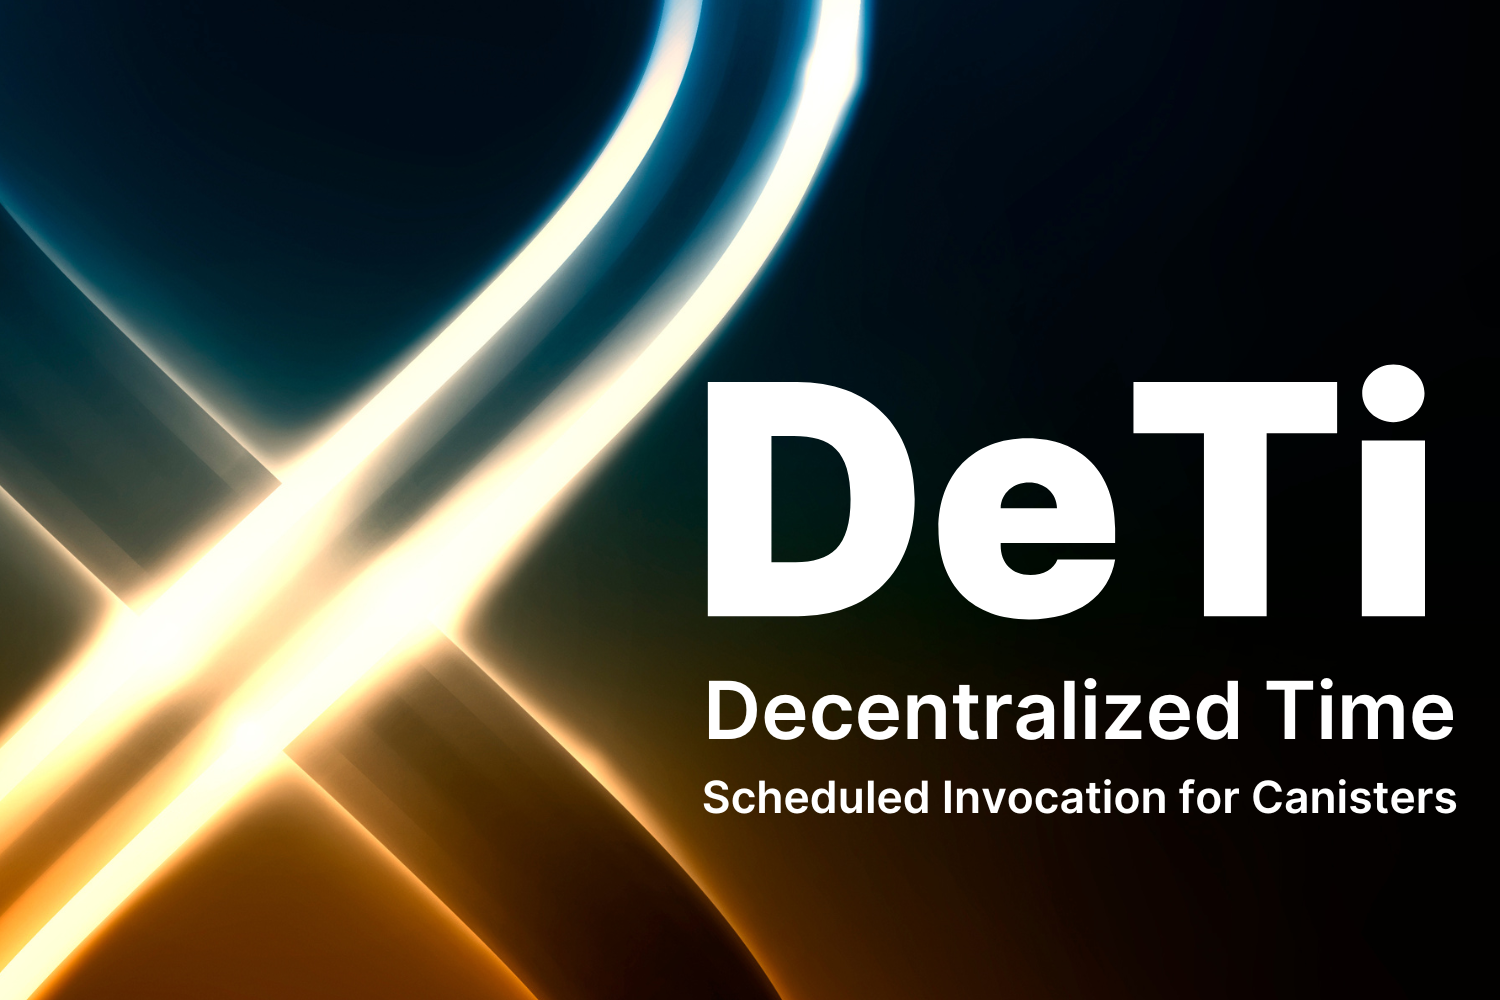
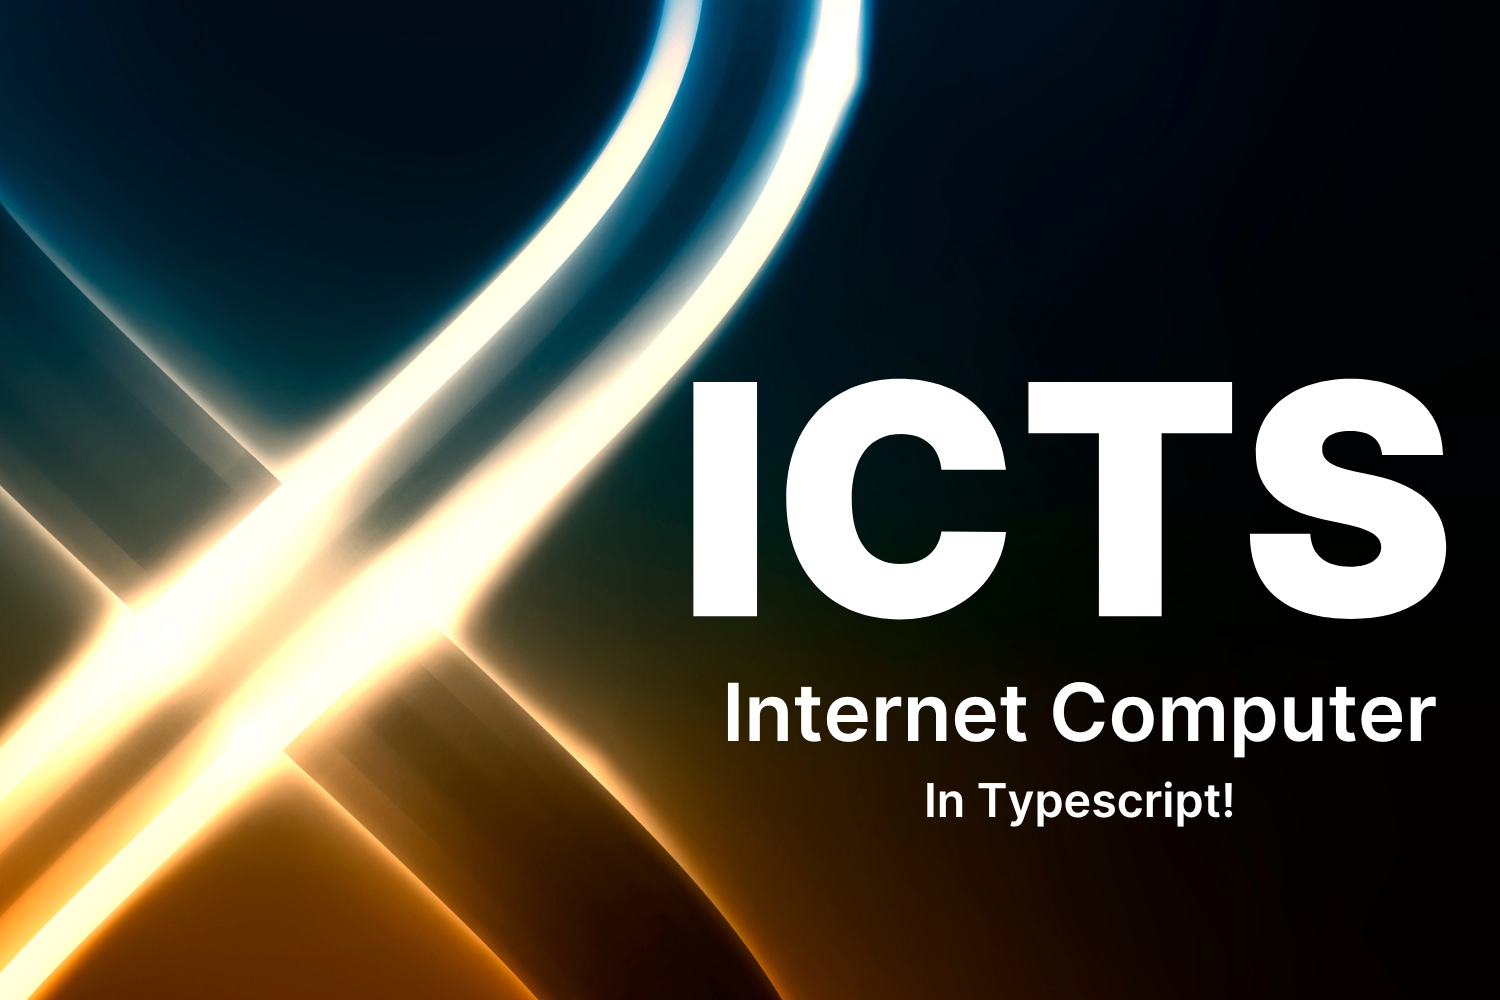
feat: add rebuild-backend becxause we need it at the start

diff --git a/react/src/LoggedOut.tsx b/react/src/LoggedOut.tsx
@@ -20,7 +20,7 @@ const useBackend = () => {
   const [actor, setActor] = useState<ActorSubclass<_SERVICE>>();
   useEffect(() => {
     (async () => {
-      const a = await createActor(heartbeat, {
+      const a = await createActor(backend, {
         agentOptions: { host },
       });
       setActor(a);
@@ -34,44 +34,14 @@ export const LoggedOut: FC = () => {
   const [plugNewClass, setPlugNewClass] = useState("opacity-0");
   const [iconNewClass, setIconNewClass] = useState("text-black");
   const [isOpen, setIsOpen] = useState(false);
-  const actor = useHeartbeat();
-  const getStats = useCallback(async () => {
-    if (actor) {
-      console.log("Firing getstats");
-      setHeartbeats(await actor.get_total_heartbeats());
-      setMessages(await actor.get_total_messages());
-      setBurnedPulses(await actor.get_total_burned_pulses());
-    }
-  }, [actor]);
-  useEffect(() => {
-    if (actor) {
-      clearInterval(timer);
-      timer = setInterval(getStats, 5000);
-    }
-    return () => {
-      clearInterval(timer);
-    };
-  }, [getStats]);
-  const [heartbeats, setHeartbeats] = useState(BigInt(0));
-  const [messages, setMessages] = useState(BigInt(0));
-  const [burnedPulses, setBurnedPulses] = useState(BigInt(0));
+
   useEffect(() => {
     setTimeout(() => {
       // setNewClass("blur-xl");
       setPlugNewClass("opacity-100");
     }, 2000);
   }, []);
-  useEffect(() => {
-    if (heartbeats) {
-      setNewClass("blur-xl");
-      setIconNewClass("text-white translate-y-10");
 
-      setTimeout(() => {
-        setNewClass("blur-sm");
-        setIconNewClass("text-black");
-      }, 1500);
-    }
-  }, [heartbeats]);
   return (
     <Fragment>
       <div
@@ -132,13 +102,6 @@ export const LoggedOut: FC = () => {
           </div>
 
           <div className="flex justify-around w-full flex-row"></div>
-          <div className="flex justify-around  flex-row  ">
-            <Stats
-              heartbeats={heartbeats}
-              messages={messages}
-              burnedPulses={burnedPulses}
-            />
-          </div>
           <div className="flex justify-around w-full flex-row">
             <div className="flex">
               <button
@@ -163,46 +126,5 @@ export const LoggedOut: FC = () => {
 };
 
 /* This example requires Tailwind CSS v2.0+ */
-
-const Stats: FC<{
-  heartbeats: bigint;
-  burnedPulses: bigint;
-  messages: bigint;
-}> = ({ heartbeats, burnedPulses, messages }) => {
-  // const { createActor } = usePlug();
-
-  const stats = [
-    { name: "Heartbeats", stat: heartbeats.toLocaleString() },
-    { name: "Messages", stat: messages.toLocaleString() },
-    {
-      name: "Burned Pulses",
-      stat: (Number(burnedPulses) / 10_000_000).toFixed(7),
-    },
-  ];
-  return (
-    <div>
-      <div className="p-6 bg-black bg-opacity-60 rounded-lg mb-6">
-        <h2 className="text-3xl leading-6 font-bold text-gray-100 text-center">
-          Statistics
-        </h2>
-        <dl className="mt-5 grid grid-cols-1 gap-5 sm:grid-cols-3">
-          {stats.map((item) => (
-            <div
-              key={item.name}
-              className="px-4 py-5 bg-gradient-to-r from-yellow-600 to-blue-800 text-white shadow rounded-lg overflow-hidden sm:p-6 border-4 border-orange-500"
-            >
-              <dt className="text-sm font-medium text-gray-100 truncate">
-                {item.name}
-              </dt>
-              <dd className="mt-1 text-3xl font-semibold text-gray-100">
-                {item.stat}
-              </dd>
-            </div>
-          ))}
-        </dl>
-      </div>
-    </div>
-  );
-};
 
 export default LoggedOut;

diff --git a/react/src/about.md b/react/src/about.md
@@ -1,27 +1,5 @@
-## Turn Internet Computers Into Unstoppable Robots
+## About this template
 
-DeTi is a decentralized scheduling and messaging service that lets you trigger your internet computer hosts
-to run whenever you want.
-
-Schedule DeTi to trigger a function on your canister:
-
-- Every n seconds
-- Every day at a certain time
-- Every week on a certain day of the week at a time
-- Every month on a certain day of the month
-- Every month on the last day of the month
-- Schedule a single message to fire one time in the future.
-
-## DETI Token -
-
-We manage payment using our utility token, DETI, that are currently available pegged to ICP - 1 ICP buys one DETI
-
-Sending a message to your canister burns 0.1 DETI. Checking to see if your message should run costs 0.0000001 DETI.
-
-If you run out of DETI, your messages will not be checked or fired.
-
-Now your canisters can never forget.
-
-Click anywhere to close. Click `Connect to Plug` to start making your canisters unstoppable.
+This is a template canister for you to develop on Internet Computer using Typescript. We hope you find it helpful! 
 
 _Akshay and Ray_

diff --git a/react/README.md b/react/README.md
@@ -1,6 +1,6 @@
-# DETI Frontend
+# DFX TS Frontend
 
-This contains the code for the front-end of the DETI decentralized time service for Internet Computer.
+This contains the code for the front-end of the DFX Template for Internet Computer.
 
 It is built with:
 
